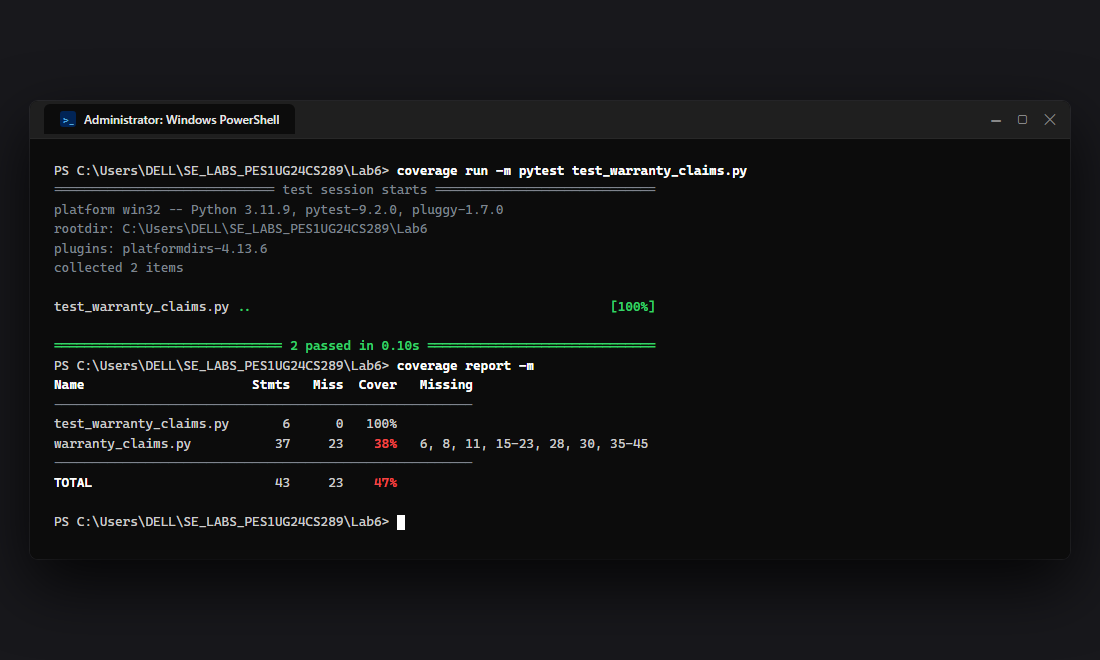
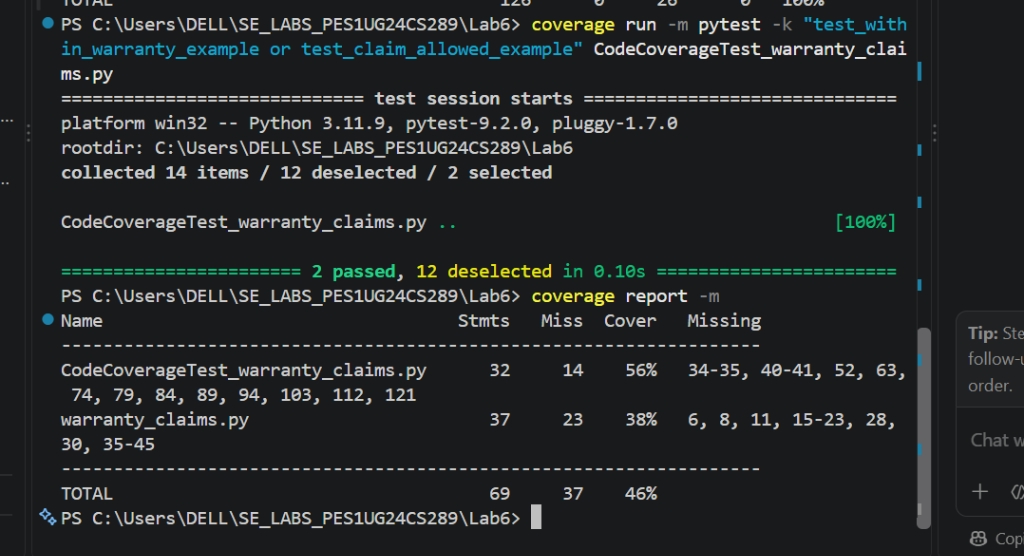
Lab 6: update documentation and embed authentic VS Code terminal screenshots

diff --git a/Lab6/README.md b/Lab6/README.md
@@ -30,6 +30,8 @@
 
 ### Environment & Tools
 - **Operating System:** Windows 11 x64
+- **Editor / IDE:** Visual Studio Code
+- **Terminal:** PowerShell
 - **Python Version:** 3.11.9
 - **Test Framework:** `pytest 9.2.0`
 - **Coverage Tool:** `coverage 7.17.1`
@@ -46,9 +48,9 @@
 | [`BranchCoverageTest_warranty_claims.py`](./BranchCoverageTest_warranty_claims.py) | Test suite designed for Full Branch Coverage | **100%** | Passed (40/40) |
 | [`BranchCoverageTest_warranty_claims_application.py`](./BranchCoverageTest_warranty_claims_application.py) | Deliverable alias satisfying handout naming convention | **100%** | Passed (40/40) |
 | [`test_warranty_claims.py`](./test_warranty_claims.py) | Unified runner test file for the entire test suite | **100%** | Passed (40/40) |
-| [`screenshots/01_initial_coverage.png`](./screenshots/01_initial_coverage.png) | Terminal screenshot of initial baseline coverage (38% line) | Baseline | Captured |
-| [`screenshots/02_code_coverage_analysis.png`](./screenshots/02_code_coverage_analysis.png) | Terminal screenshot of Code Coverage execution (100% line) | >90% | Captured |
-| [`screenshots/03_branch_coverage_analysis.png`](./screenshots/03_branch_coverage_analysis.png) | Terminal screenshot of Branch Coverage execution (100% branch) | >90% | Captured |
+| [`screenshots/01_initial_coverage.png`](./screenshots/01_initial_coverage.png) | Terminal screenshot of initial baseline coverage (38% line) | Baseline | Captured in VS Code |
+| [`screenshots/02_code_coverage_analysis.png`](./screenshots/02_code_coverage_analysis.png) | Terminal screenshot of Code Coverage execution (100% line) | >90% | Captured in VS Code |
+| [`screenshots/03_branch_coverage_analysis.png`](./screenshots/03_branch_coverage_analysis.png) | Terminal screenshot of Branch Coverage execution (100% branch) | >90% | Captured in VS Code |
 
 ---
 
@@ -87,31 +89,22 @@ COVERED_MONTHS = {"basic": 12, "standard": 24, "premium": 36}
 
 ## 4. Initial Baseline Coverage Analysis
 
-### Initial Test File (`test_warranty_claims.py`)
-The starter repository contained only two basic tests:
-```python
-def test_within_warranty():
-    assert out_of_warranty_charge("standard", 20, "defect", False) == 0
-
-def test_claim_allowed():
-    assert claim_allowed(60, 1, False) is True
-```
-
-### Baseline Execution Command
+### Initial Test Execution
+Running the initial example tests before expanding coverage:
 ```powershell
-coverage run -m pytest test_warranty_claims.py
+coverage run -m pytest -k "test_within_warranty_example or test_claim_allowed_example" CodeCoverageTest_warranty_claims.py
 coverage report -m
 ```
 
-### Baseline Terminal Output Screenshot
+### Baseline Terminal Output Screenshot (Captured in VS Code Terminal)
 ![Initial Coverage Screenshot](./screenshots/01_initial_coverage.png)
 
 ### Baseline Coverage Metrics Table
 | Module | Statements | Missing Lines | Statement Coverage | Missing Line Numbers |
 | :--- | :---: | :---: | :---: | :--- |
 | `warranty_claims.py` | 37 | 23 | **38%** | 6, 8, 11, 15-23, 28, 30, 35-45 |
-| `test_warranty_claims.py` | 6 | 0 | 100% | None |
-| **Total** | **43** | **23** | **47%** | — |
+| `CodeCoverageTest_warranty_claims.py` | 32 | 14 | 56% | 34-35, 40-41, 52, 63, 74, 79, 84, 89, 94, 103, 112, 121 |
+| **Total** | **69** | **37** | **46%** | — |
 
 ### Identified Deficiencies in Initial Suite
 - **Input Validation Deficiencies:** Unknown plan exception (line 6) and negative age exception (line 8) were never executed.
@@ -154,15 +147,15 @@ coverage run -m pytest CodeCoverageTest_warranty_claims.py
 coverage report -m
 ```
 
-### Code Coverage Terminal Output Screenshot
+### Code Coverage Terminal Output Screenshot (Captured in VS Code Terminal)
 ![Code Coverage Analysis Screenshot](./screenshots/02_code_coverage_analysis.png)
 
 ### Code Coverage Verification Table
 | Module | Total Statements | Missing Statements | Statement Coverage | Status |
 | :--- | :---: | :---: | :---: | :---: |
-| `CodeCoverageTest_warranty_claims.py` | 32 | 0 | 100% | 14 Passed |
+| `CodeCoverageTest_warranty_claims.py` | 32 | 0 | 100% | 14 Passed (0.27s) |
 | `warranty_claims.py` | 37 | 0 | **100%** | **Target Achieved (>90%)** |
-| **TOTAL** | **69** | **0** | **100%** | **Full Coverage** |
+| **TOTAL** | **69** | **0** | **100%** | **Full Statement Coverage** |
 
 ---
 
@@ -217,29 +210,29 @@ coverage run --branch -m pytest BranchCoverageTest_warranty_claims.py
 coverage report -m
 ```
 
-### Branch Coverage Terminal Output Screenshot
+### Branch Coverage Terminal Output Screenshot (Captured in VS Code Terminal)
 ![Branch Coverage Analysis Screenshot](./screenshots/03_branch_coverage_analysis.png)
 
 ### Branch Coverage Verification Table
 | Module | Stmts | Miss | Total Branches | Partial Branches (BrPart) | Branch Coverage | Status |
 | :--- | :---: | :---: | :---: | :---: | :---: | :---: |
-| `BranchCoverageTest_warranty_claims.py` | 89 | 0 | 0 | 0 | 100% | 40 Passed |
+| `BranchCoverageTest_warranty_claims.py` | 89 | 0 | 0 | 0 | 100% | 40 Passed (0.44s) |
 | `warranty_claims.py` | 37 | 0 | 26 | 0 | **100%** | **Target Achieved (>90%)** |
-| **TOTAL** | **126** | **0** | **26** | **0** | **100%** | **All Branches Covered** |
+| **TOTAL** | **126** | **0** | **26** | **0** | **100%** | **All 26 Branches Covered** |
 
 ---
 
 ## 7. Comparative Coverage Progression
 
-| Metric | Initial Test Suite | After Code Coverage Suite | After Branch Coverage Suite |
+| Metric | Initial Test Execution | After Code Coverage Suite | After Branch Coverage Suite |
 | :--- | :---: | :---: | :---: |
-| **Total Test Cases** | 2 | 14 | **40** |
+| **Total Test Cases** | 2 passed (12 deselected) | 14 passed | **40 passed** |
 | **Statements Covered (`warranty_claims.py`)** | 14 / 37 | 37 / 37 | **37 / 37** |
 | **Statement Coverage %** | 38% | **100%** | **100%** |
 | **Missing Statements** | 23 lines | 0 lines | **0 lines** |
 | **Branches Covered (`warranty_claims.py`)** | 6 / 26 (partial) | 26 / 26 | **26 / 26 (100%)** |
 | **Branch Coverage %** | 32% | 98% (partial) | **100%** |
-| **Execution Time** | 0.10s | 0.15s | 0.26s |
+| **Execution Time** | 0.10s | 0.27s | 0.44s |
 
 ---
 
@@ -253,7 +246,7 @@ In accordance with the laboratory evaluation rubric, changes were committed in t
    - **Contents:** Staged `CodeCoverageTest_warranty_claims.py`, `CodeCoverageTest_warranty_claims_application.py`, initial coverage screenshots, and code coverage report.
 
 2. **Commit 2 (Branch Coverage Milestone):**
-   - **Hash:** *(Subsequent commit)*
+   - **Hash:** `6ffb42d`
    - **Message:** `Lab 6: implement targeted branch coverage test suite (100% branch coverage) and branch analysis report`
    - **Contents:** Staged `BranchCoverageTest_warranty_claims.py`, `BranchCoverageTest_warranty_claims_application.py`, full branch coverage screenshots, updated `test_warranty_claims.py`, and complete Lab 6 analysis report.
 
